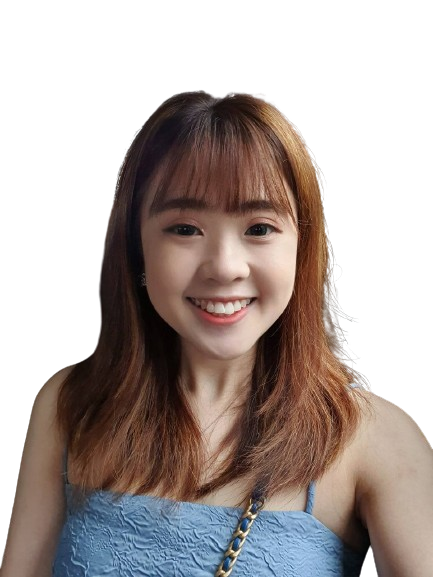
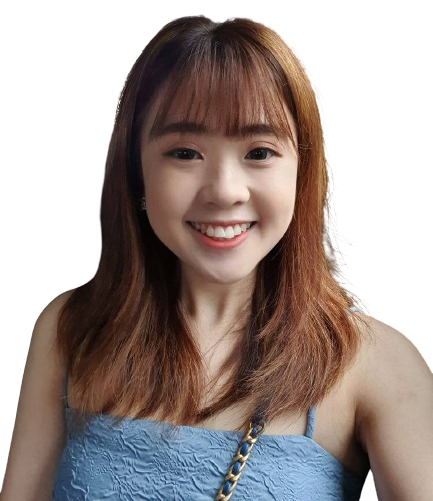
Fix image

diff --git a/index.html b/index.html
@@ -101,7 +101,7 @@
                                 129.362C2.45775 97.8511 -7.48481 59.1033 6.67581 34.5279C20.9871 10.1032 59.7028 
                                 -0.149132 97.9666 0.00163737C136.23 0.303176 174.193 10.857 190.312 36.4879Z" />
 
-                                <image class="home__blob-img" x="12" y="18" xlink:href="assets/img/Delia.jpg" />
+                                <image class="home__blob-img" x="12" y="18" xlink:href="assets/img/Delia.png" />
                             </g>
                         </svg>
                     </div>
